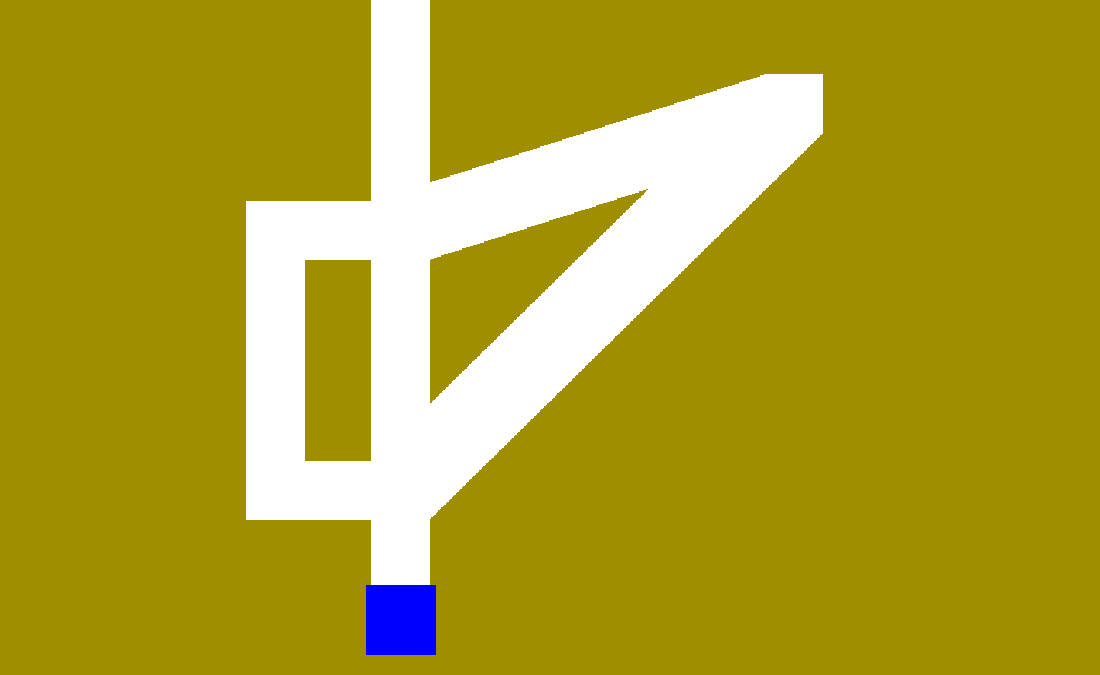
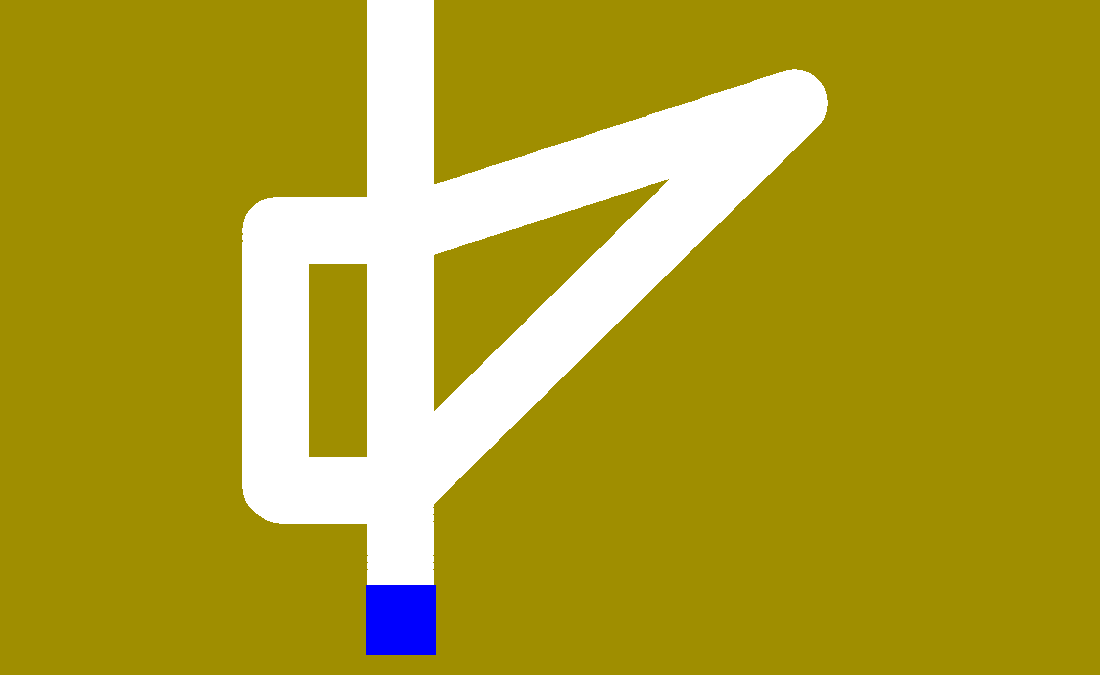
Fixed positioning of divs, fixed png of exampleMap2

diff --git a/html/ca/gameComponents/game.html b/html/ca/gameComponents/game.html
@@ -432,15 +432,15 @@
                         }
                     }
                     //work out angle between the two points
-                    var angleFromHorizontal =Math.atan((pointOrder.to.y-pointOrder.from.y)/(pointOrder.to.x-pointOrder.from.x));
-                    pos["x"] = pointOrder.from.x-pathRadius + pathRadius * Math.sin(angleFromHorizontal);
+                    var angleFromHorizontal = Math.atan((pointOrder.to.y-pointOrder.from.y)/(pointOrder.to.x-pointOrder.from.x));
+                    pos["x"] = pointOrder.from.x- pathRadius * Math.cos(angleFromHorizontal);
                     pos["y"] = pointOrder.from.y-pathRadius - pathRadius * Math.sin(angleFromHorizontal);
                     console.log(point,nextPoint,pathComponentHeight,pathRadius,pos,angleFromHorizontal);
                     //use pythagoras to calculate length of div
                     var pathComponentWidth = magnitude({'x':pointOrder.to.x-pointOrder.from.x+2*pathRadius*Math.cos(angleFromHorizontal),'y':pointOrder.to.y-pointOrder.from.y+2*pathRadius*Math.sin(angleFromHorizontal)});
 
                     //add to layout
-                    createPathElement({"width":pathComponentWidth,"height":pathComponentHeight},pos,angleFromHorizontal);
+                    createPathElement({"width":pathComponentWidth,"height":pathComponentHeight},pos,angleFromHorizontal,pathRadius);
                 }
                 
                 
@@ -448,7 +448,7 @@
                     return Math.pow(Math.pow(vector.x,2)+Math.pow(vector.y,2),0.5);
                 }
                 
-                function createPathElement(size,pos,angle){
+                function createPathElement(size,pos,angle,pathRadius){
                     var gameContainer = $("#gameSpace")
                     var pathComponent = $('<div id="'+i+'" class="mapPathTile tile">');
                     gameContainer.append(pathComponent);
@@ -456,7 +456,8 @@
                                         top: pos.y,
                                         width:size.width,
                                         height: size.height,
-                                        transform:"rotate("+angle+"rad)"});
+                                        transform:"rotate("+angle+"rad)",
+                                        borderRadius: pathRadius});
                 }
 
                 function prepareEvents(){

diff --git a/html/ca/gameComponents/mapSelector.html b/html/ca/gameComponents/mapSelector.html
@@ -276,6 +276,7 @@
                             map["mapData"]=response;
                             mapArray.push(map);
                             activeAJAX-=1;
+                            console.log(activeAJAX);
                             if (activeAJAX==0){
                                 setStartMap(parseBackground());
                             }
@@ -328,6 +329,7 @@
                 function setStartMap(mapName){
                     for (i=0;i<mapArray.length;i++){
                         var map = mapArray[i];
+                        console.log(map["name"],mapName);
                         if (map["name"]==mapName){
                             initiateCarousel(i);
                             break;
@@ -340,13 +342,12 @@
                     setText(mapArray[index]["name"],mapArray[index]["description"]);
                     showText();
                     showControls();
-
                 }
                 
                 function parseBackground(){
                     var backgroundPath = $("#gameDiv").css("background-image");
-                    backgroundPath = backgroundPath.replace(')','');
-                    backgroundPath = backgroundPath.replace('url(','');
+                    backgroundPath = backgroundPath.replace('")','');
+                    backgroundPath = backgroundPath.replace('url("','');
                     var pathArray = backgroundPath.split('/');
                     var backgroundName = pathArray[pathArray.length-1];
                     var backgroundMapString = backgroundName.replace('.png','');

diff --git a/html/ca/gameComponents/game.css b/html/ca/gameComponents/game.css
@@ -44,7 +44,8 @@
 }
 
 .mapPathTile{
-    opacity: 0;
+    opacity: 0.2;
+    background-color: lightgray;
     position: absolute;
     -webkit-transform-origin: left center;
     transform-origin:left center; 
